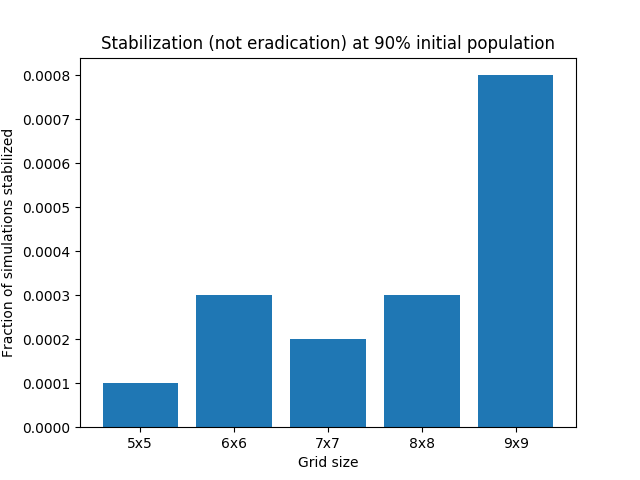
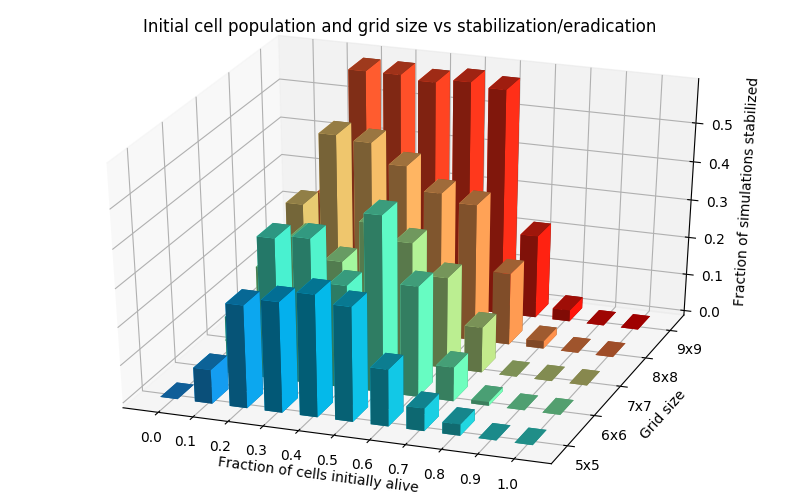
Plot results in 3D bar graph
Closes #2

diff --git a/life.py b/life.py
@@ -1,6 +1,9 @@
+from __future__ import division
 import time, random
 import multiprocessing, functools
-import matplotlib.pyplot as plot
+import matplotlib.pyplot as plt
+from mpl_toolkits.mplot3d import Axes3D
+from matplotlib import cm
 
 def make2DList(rows, columns, generator = lambda: False):
     return [[generator() for _ in range(rows)] for _ in range(columns)]
@@ -31,19 +34,42 @@ def simulate(size, startPercent, *args):
 if __name__ == "__main__":
     startTime = time.time()
     POOL = multiprocessing.Pool()
-    TRIALS = 10000
+    TRIALS = 100
+    GRID_SIZES = range(5, 10)
+    POPULATION_PERCENTAGES = map(lambda n: n/10, range(0,11))
     data = []
-    for SIZE in range(5, 10):
-        #for START_PERCENT in map(lambda n: n/10.0, range(1,10)):
-            START_PERCENT = 0.9
+    for SIZE in GRID_SIZES:
+        data.append([])
+        for START_PERCENT in POPULATION_PERCENTAGES:
             results = POOL.map(functools.partial(simulate, SIZE, START_PERCENT), range(TRIALS))
-            data.append(sum(results)/float(TRIALS))
-            print "{0}x{0} grid with {1:.0f}% initially alive: {2}% stable".format(SIZE, START_PERCENT*100, data[-1]*100)
+            data[-1].append(sum(results)/TRIALS)
+            print "{0}x{0} grid with {1:.0f}% initially alive: {2}% stable".format(SIZE, START_PERCENT*100, data[-1][-1]*100)
+
     print "Took {:.2f} seconds.".format(time.time() - startTime)
-    plot.bar(range(len(data)), data)
-    plot.xlabel('Grid size')
-    plot.ylabel('Fraction of simulations stabilized')
-    plot.title('Stabilization (not eradication) at 90% initial population')
-    plot.xticks(range(len(data)))
-    plot.gca().set_xticklabels(['{0}x{0}'.format(i) for i in range(5, 10)])
-    plot.show()
+
+    fig = plt.figure(figsize=(8,5))
+    ax = fig.gca(projection='3d')
+
+    x = range(len(data[0])) * len(data)
+    y = sum([[i]*len(data[0]) for i in range(len(data))], [])
+    z = [0] * len(data[0]) * len(data)
+
+    dx = 0.5
+    dy = 0.5
+    dz = sum(data, [])
+
+    ax.w_xaxis.set_ticks([i+dx/2 for i in range(len(data[0]))])
+    ax.w_xaxis.set_ticklabels(POPULATION_PERCENTAGES)
+
+    ax.w_yaxis.set_ticks([i+dy/2 for i in range(len(data))])
+    ax.w_yaxis.set_ticklabels(['{0}x{0}'.format(i) for i in GRID_SIZES])
+
+    ax.set_title('Initial cell population and grid size vs stabilization/eradication')
+    ax.set_xlabel('Fraction of cells initially alive')
+    ax.set_ylabel('Grid size')
+    ax.set_zlabel('Fraction of simulations stabilized')
+
+    colors = cm.rainbow( [0.2 + (1-0.2)/(len(x)-1)*i for i in range(len(x))] )
+    ax.bar3d(x, y, z, dx, dy, dz, colors)
+    plt.tight_layout()
+    plt.show()
